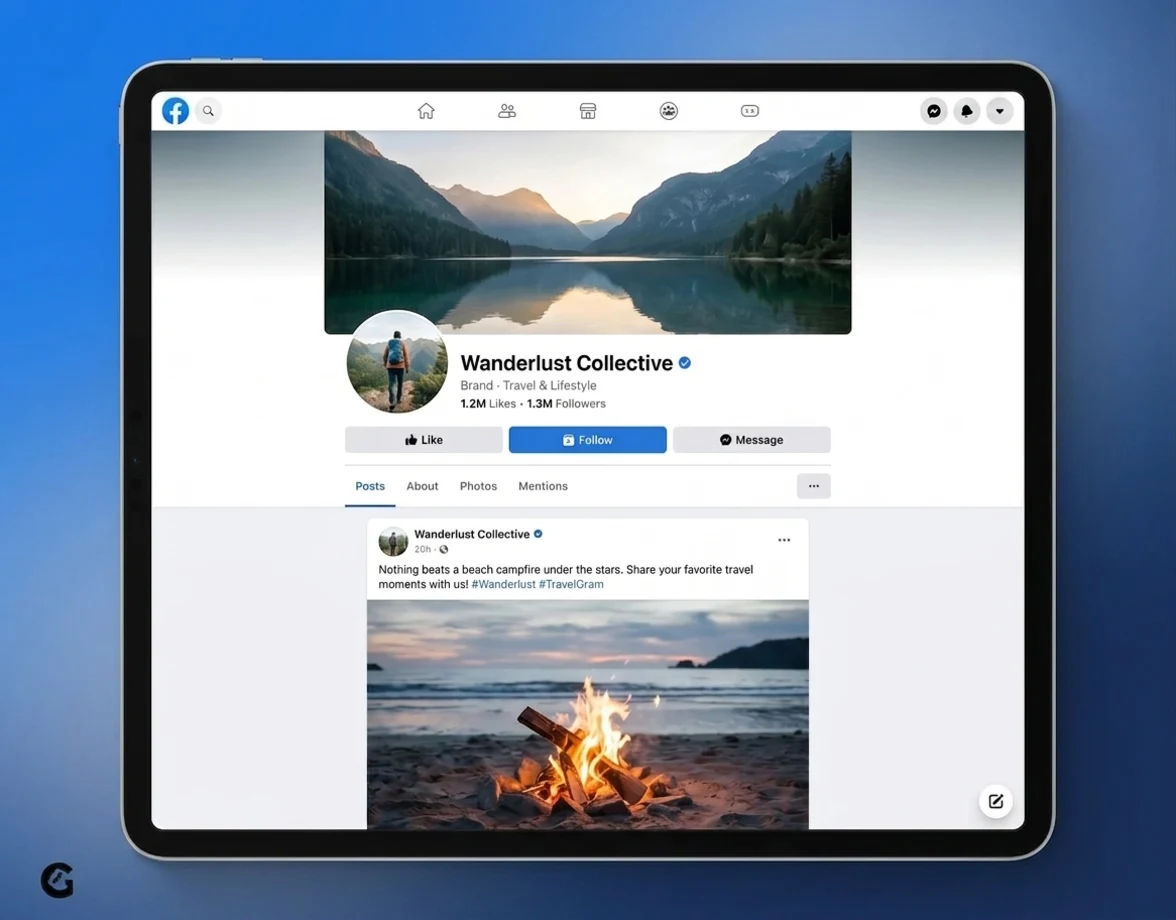
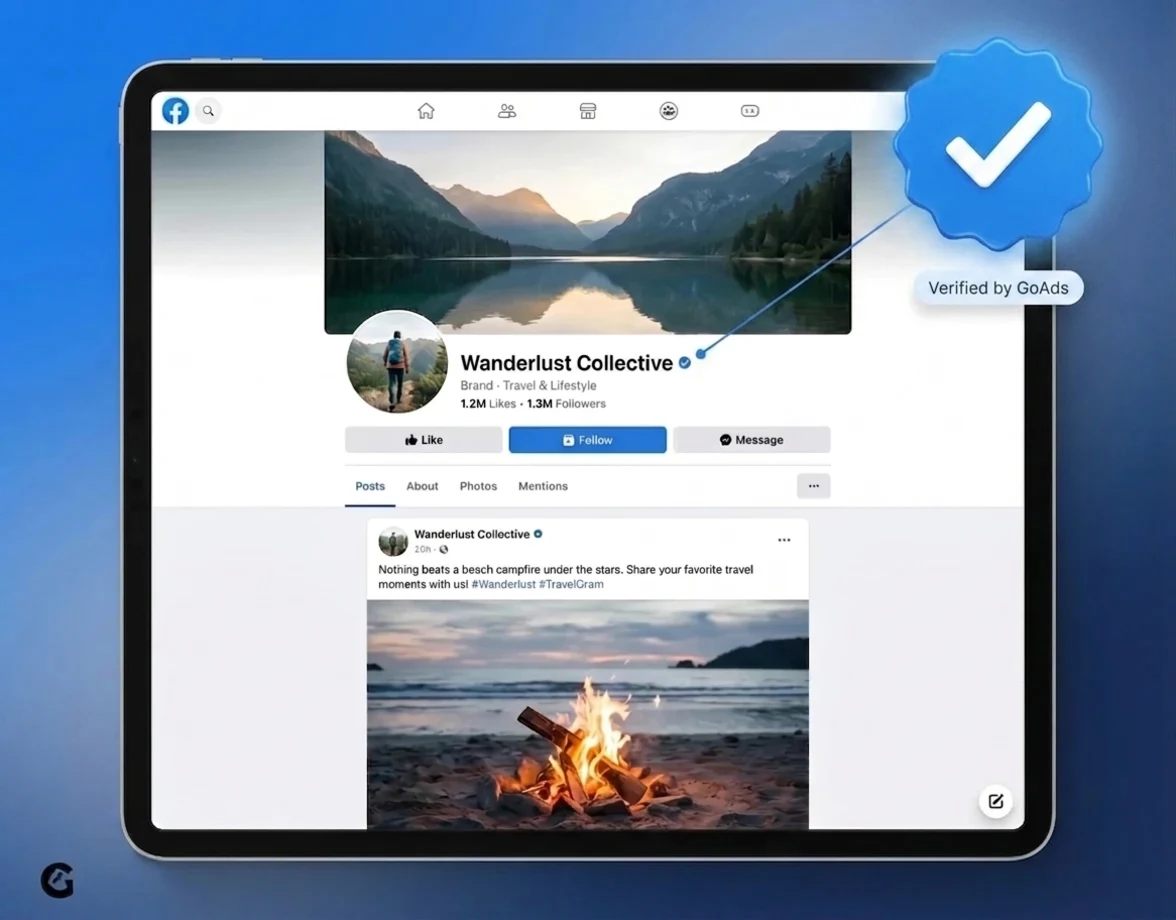
feat(blue-verification): bigger images + prominent blue-tick callout
imageMaxWidth 720 -> 960 so the image balances the 3-paragraph copy. Added a large Meta-blue verified seal badge callout (connector line to the verified name + 'Verified by GoAds' pill) on both images so visitors instantly recognise the blue-tick service. Device/content/background unchanged.

diff --git a/app/src/data/goads-blue-verification-page-data.ts b/app/src/data/goads-blue-verification-page-data.ts
@@ -17,7 +17,7 @@ export const blueVerificationFeatureRows: FeatureRowData[] = [
       "Verified accounts earn up to 30% more engagement on average. The blue check tells your audience you're the real brand — not a competitor, not an impersonator.\n\nBeyond credibility, verification unlocks priority support, account protection and impersonation-removal tools that unverified accounts never see.\n\nWe've taken accounts from unverified to verified on both Facebook and Instagram — at every business size.",
     image: "/foreplay/goads/goads-blue-verification-badge.webp",
     imageAlt: "Verified Instagram profile with blue checkmark on iPhone, by GoAds",
-    imageMaxWidth: 720, // larger so the image balances the 3-paragraph copy
+    imageMaxWidth: 960, // large so the image balances the 3-paragraph copy
     reversed: false,
   },
   {
@@ -26,7 +26,7 @@ export const blueVerificationFeatureRows: FeatureRowData[] = [
       "Your audience doesn't separate Facebook from Instagram — they expect the badge on every profile. One unverified handle breaks trust across both.\n\nWe handle both platforms end-to-end. Single point of contact, official Meta channels only, predictable timelines on every submission.",
     image: "/foreplay/goads/goads-blue-verification-multiplatform.webp",
     imageAlt: "Verified Facebook Page with blue checkmark on iPad, by GoAds",
-    imageMaxWidth: 720, // match image 1 size
+    imageMaxWidth: 960, // match image 1 size
     reversed: true,
     ctaLabel: "Contact us now",
     ctaHref: "/book-demo",